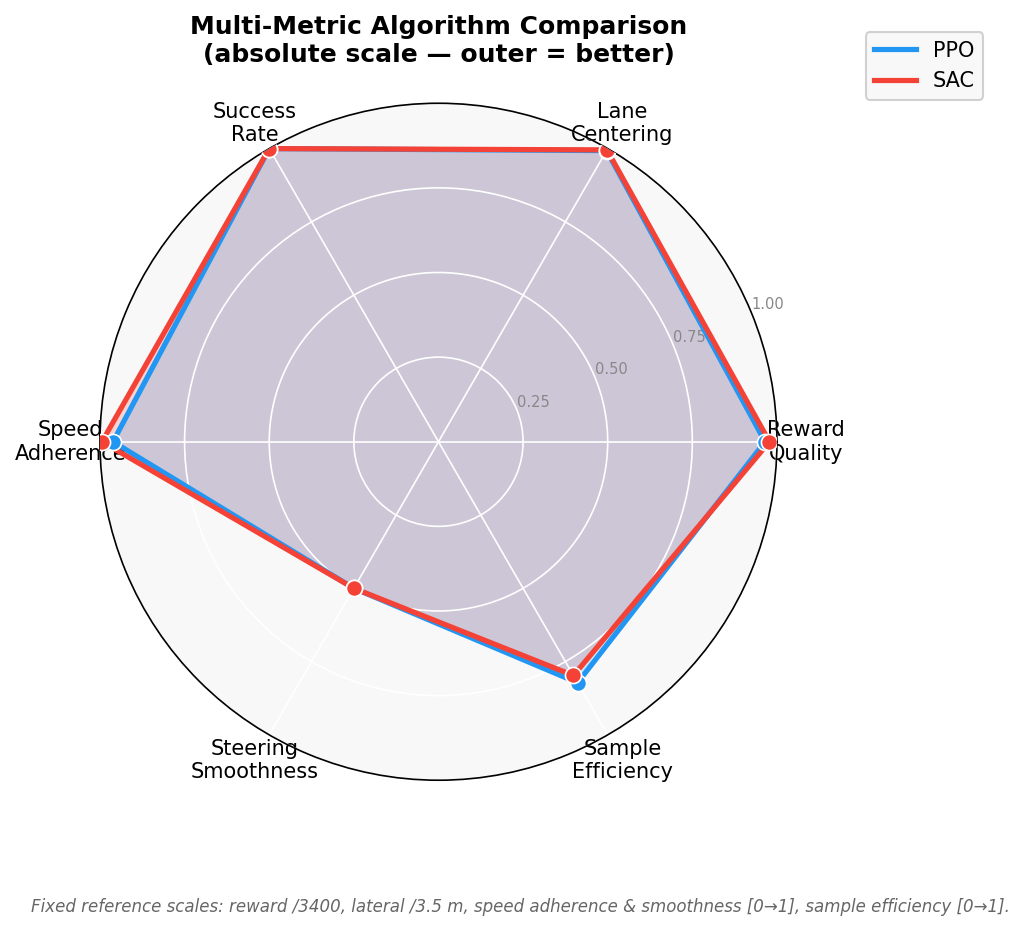
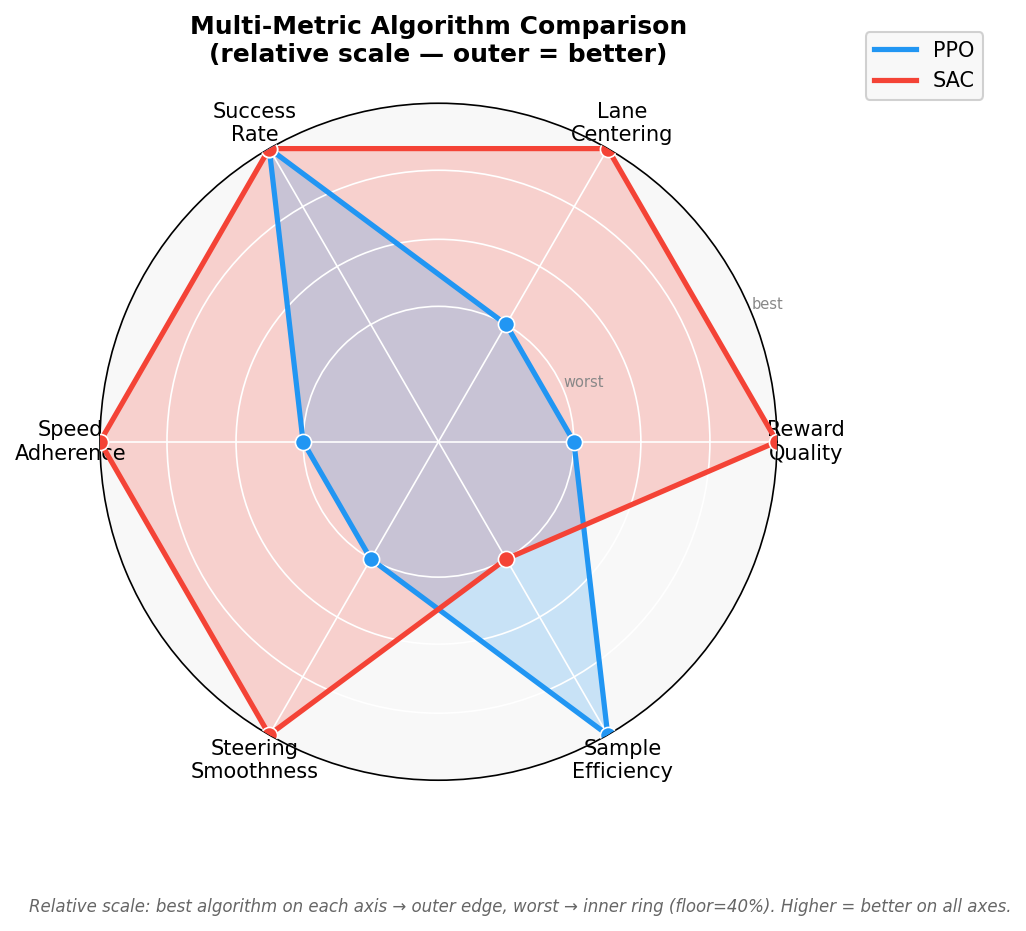
fix(radar_chart): use relative normalisation with floor so differences visible
Replace absolute normalisation (reward/3400, lateral/3.5m) which made
both PPO and SAC cluster at ~0.96-1.0 and appear nearly identical, with
relative normalisation (best algo → 1.0, worst → 0.4 floor) so the
meaningful differences in speed adherence, smoothness, and sample
efficiency are clearly visible.

Also add _load_all_training_rows() helper to plot_metrics.py (mirrors
generate_metrics.py) so radar chart computes speed/smoothness from
consistent merged+deduplicated CSV rows instead of re-reading raw files.

diff --git a/scripts/plot_metrics.py b/scripts/plot_metrics.py
@@ -87,6 +87,31 @@ def _rolling_mean(values, window):
     return result
 
 
+def _load_all_training_rows(algo):
+    """
+    Return all raw episode CSV rows for the algorithm, merged across runs,
+    sorted by timestep and deduplicated (same logic as generate_metrics.py).
+    Returns None if no CSV files found.
+    """
+    pattern = os.path.join(RESULTS_ROOT, "logs", algo, "*", "episode_log.csv")
+    paths = sorted(glob.glob(pattern))
+    if not paths:
+        return None
+
+    all_rows = []
+    for p in paths:
+        rows = _read_csv(p)
+        all_rows.extend(rows)
+
+    if not all_rows:
+        return None
+
+    seen = {}
+    for r in all_rows:
+        seen[int(r["timestep"])] = r
+    return sorted(seen.values(), key=lambda r: int(r["timestep"]))
+
+
 def load_training_data(algo):
     """
     Return the full training history for the algorithm by merging all
@@ -587,13 +612,16 @@ def plot_sample_efficiency(outdir, smooth_window=20, threshold=2500):
 
 def plot_radar_chart(outdir, window=20):
     """
-    Normalized spider/radar chart comparing algorithms across six dimensions:
-    reward quality, lane centering, success rate, speed adherence,
-    steering smoothness, and sample efficiency.
-    Higher is always better on every axis.
+    Spider/radar chart comparing algorithms across six dimensions.
+    Uses relative normalisation with floor=0.4 so that:
+      - the best algorithm on each axis reaches 1.0 (outer edge)
+      - the worst algorithm on each axis reaches 0.4 (visible, not zero)
+    This shows meaningful differences while both polygons remain clearly visible.
+    Data loading is consistent with generate_metrics.py.
     """
-    SPEED_TARGET = 30.0
-    SAMPLE_EFF_THRESHOLD = 2500
+    SPEED_TARGET       = 30.0
+    SAMPLE_EFF_THRESH  = 2500
+    FLOOR              = 0.4    # minimum polygon radius for worst value on each axis
 
     categories = [
         "Reward\nQuality",
@@ -605,68 +633,59 @@ def plot_radar_chart(outdir, window=20):
     ]
     N = len(categories)
 
-    # ── Gather raw values per algorithm ───────────────────────────────────────
+    # ── Collect raw metric values — same sources as generate_metrics.py ───────
     raw = {}
     for algo in ALGORITHMS:
-        eval_data = load_eval_data(algo)
-        train_data = load_training_data(algo)
+        eval_data  = load_eval_data(algo)
+        train_rows = _load_all_training_rows(algo)   # merged & sorted, same as gen_metrics
 
-        if eval_data is None and train_data is None:
+        if eval_data is None and train_rows is None:
             continue
 
-        # Reward quality — use mean reward from eval, or training fallback
+        # Performance from eval (preferred) or training fallback
         if eval_data:
-            reward = eval_data["mean_reward"]
+            reward  = eval_data["mean_reward"]
             lateral = eval_data["mean_lateral"]
             success = eval_data["success_rate"]
         else:
-            rewards = train_data["rewards"][-window:]
-            laterals = train_data["laterals"][-window:]
-            reward = sum(rewards) / len(rewards)
-            lateral = sum(laterals) / len(laterals)
+            rw = train_rows[-window:]
+            reward  = sum(float(r.get("episode_reward", r.get("reward", 0))) for r in rw) / len(rw)
+            lat_key = "mean_lateral_dist" if "mean_lateral_dist" in rw[0] else "mean_lateral_distance"
+            lateral = sum(float(r[lat_key]) for r in rw) / len(rw)
             success = 1.0
 
-        # Speed adherence from training logs
+        # Speed adherence and smoothness from last `window` training episodes
         speed_adh = None
-        if train_data:
-            speeds_window = train_data.get("speeds")
-            # Re-load for speed (not in the dict — read from raw CSV)
-            pattern = os.path.join(RESULTS_ROOT, "logs", algo, "*", "episode_log.csv")
-            paths = sorted(glob.glob(pattern))
-            all_rows = []
-            for p in paths:
-                rows = _read_csv(p)
-                all_rows.extend(rows)
-            if all_rows and "mean_speed_kmh" in all_rows[0]:
-                all_rows.sort(key=lambda r: int(r["timestep"]))
-                w_rows = all_rows[-window:]
-                speeds = [float(r["mean_speed_kmh"]) for r in w_rows]
-                mean_spd = sum(speeds) / len(speeds)
+        smoothness = None
+        if train_rows:
+            w = train_rows[-window:]
+            if "mean_speed_kmh" in w[0]:
+                speeds    = [float(r["mean_speed_kmh"]) for r in w]
+                mean_spd  = sum(speeds) / len(speeds)
                 speed_adh = max(0.0, 1.0 - abs(mean_spd - SPEED_TARGET) / SPEED_TARGET)
-
-            # Smoothness
-            smoothness = None
-            if all_rows and "mean_smoothness" in all_rows[0]:
-                w_rows = all_rows[-window:]
-                sm = [float(r["mean_smoothness"]) for r in w_rows]
+            if "mean_smoothness" in w[0]:
+                sm         = [float(r["mean_smoothness"]) for r in w]
                 smoothness = sum(sm) / len(sm)
 
-        # Sample efficiency — normalise: 1 = very fast, 0 = never converged
+        # Sample efficiency: 1 − (steps_to_threshold / 1M), 0 if never reached
         se_step = None
-        if train_data:
-            smooth_rw = _rolling_mean(train_data["rewards"], window)
-            for ts, r in zip(train_data["timesteps"], smooth_rw):
-                if r >= SAMPLE_EFF_THRESHOLD:
+        if train_rows:
+            reward_key = "episode_reward" if "episode_reward" in train_rows[0] else "reward"
+            rw_vals    = [float(r[reward_key]) for r in train_rows]
+            ts_vals    = [int(r["timestep"])   for r in train_rows]
+            smooth_rw  = _rolling_mean(rw_vals, window)
+            for ts, rm in zip(ts_vals, smooth_rw):
+                if rm >= SAMPLE_EFF_THRESH:
                     se_step = ts
                     break
-        se_norm = max(0.0, 1.0 - (se_step / 1_000_000)) if se_step else 0.0
+        se_norm = max(0.0, 1.0 - se_step / 1_000_000) if se_step else 0.0
 
         raw[algo] = {
-            "reward":    reward,
-            "lateral":   lateral,
-            "success":   success,
-            "speed_adh": speed_adh if speed_adh is not None else 0.5,
-            "smoothness": smoothness if smoothness is not None else 0.5,
+            "reward":     reward,
+            "lateral":    lateral,
+            "success":    success,
+            "speed_adh":  speed_adh  if speed_adh  is not None else 0.0,
+            "smoothness": smoothness if smoothness is not None else 0.0,
             "sample_eff": se_norm,
         }
 
@@ -674,26 +693,35 @@ def plot_radar_chart(outdir, window=20):
         print("  [skip] radar_chart — need at least 2 algorithms with data")
         return
 
-    # ── Absolute normalisation with fixed reference points ────────────────────
-    # Each metric maps to [0, 1] using domain-appropriate reference values so
-    # that small inter-algorithm differences are not artificially amplified.
-    MAX_REWARD    = 3400.0    # theoretical max (1000 steps × max reward/step)
-    MAX_LATERAL   = 3.5       # lane boundary in metres
-    MAX_STEPS     = 1_000_000 # training budget
-
-    def score(algo):
-        d = raw[algo]
-        return [
-            d["reward"]    / MAX_REWARD,              # reward quality
-            1.0 - d["lateral"]  / MAX_LATERAL,        # lane centering (lower = better)
-            d["success"],                              # success rate (already 0-1)
-            d["speed_adh"],                            # speed adherence (already 0-1)
-            d["smoothness"],                           # smoothness (already 0-1)
-            d["sample_eff"],                           # sample efficiency (already 0-1)
-        ]
-
     algos = list(raw.keys())
-    scores = {algo: score(algo) for algo in algos}
+
+    # ── Relative normalisation with floor ─────────────────────────────────────
+    # For each metric, best observed → 1.0, worst observed → FLOOR.
+    # Higher is always better (lateral is inverted first).
+    raw_scores = {
+        algo: [
+            raw[algo]["reward"],
+            1.0 - raw[algo]["lateral"] / 3.5,   # invert: lower lateral = better
+            raw[algo]["success"],
+            raw[algo]["speed_adh"],
+            raw[algo]["smoothness"],
+            raw[algo]["sample_eff"],
+        ]
+        for algo in algos
+    }
+
+    def norm_with_floor(metric_idx):
+        vals = [raw_scores[a][metric_idx] for a in algos]
+        mn, mx = min(vals), max(vals)
+        if mx == mn:
+            return {a: 1.0 for a in algos}
+        return {
+            a: FLOOR + (1.0 - FLOOR) * (raw_scores[a][metric_idx] - mn) / (mx - mn)
+            for a in algos
+        }
+
+    normed = [norm_with_floor(i) for i in range(N)]
+    scores = {algo: [normed[i][algo] for i in range(N)] for algo in algos}
 
     # ── Build polar plot ──────────────────────────────────────────────────────
     angles = [n / float(N) * 2 * np.pi for n in range(N)]
@@ -701,38 +729,42 @@ def plot_radar_chart(outdir, window=20):
 
     fig, ax = plt.subplots(figsize=(7, 7), subplot_kw=dict(polar=True))
 
-    # Draw fills first (largest area behind, smallest in front so both visible)
+    # Draw largest fill behind, smallest fill in front — both always visible
     area_order = sorted(algos, key=lambda a: sum(scores[a]), reverse=True)
     for algo in area_order:
         vals = scores[algo] + scores[algo][:1]
-        ax.fill(angles, vals, color=COLORS[algo], alpha=0.20)
+        ax.fill(angles, vals, color=COLORS[algo], alpha=0.22)
 
-    # Draw lines and points on top of all fills
-    hatches = ["///", "..."]   # distinct hatch per algorithm for print-safe distinction
-    for i, algo in enumerate(algos):
-        vals = scores[algo] + scores[algo][:1]
+    # Lines and scatter points on top
+    for algo in algos:
+        vals  = scores[algo] + scores[algo][:1]
         color = COLORS[algo]
         ax.plot(angles, vals, color=color, linewidth=2.5, label=algo.upper(), zorder=4)
-        ax.scatter(angles[:-1], vals[:-1], color=color, s=60, zorder=5, edgecolors="white", linewidths=0.8)
+        ax.scatter(angles[:-1], vals[:-1], color=color, s=60, zorder=5,
+                   edgecolors="white", linewidths=0.8)
 
+    # Reference rings labelled with actual meaning
+    ax.set_yticks([FLOOR, FLOOR + (1 - FLOOR) * 0.33,
+                   FLOOR + (1 - FLOOR) * 0.67, 1.0])
+    ax.set_yticklabels(["worst", "", "", "best"], fontsize=7, color="#888888")
+    ax.set_ylim(0, 1)
     ax.set_xticks(angles[:-1])
     ax.set_xticklabels(categories, fontsize=10)
-    ax.set_ylim(0, 1)
-    ax.set_yticks([0.25, 0.5, 0.75, 1.0])
-    ax.set_yticklabels(["0.25", "0.50", "0.75", "1.00"], fontsize=7, color="#888888")
     ax.grid(color="white", linewidth=0.8)
     ax.set_facecolor("#F8F8F8")
 
     ax.legend(loc="upper right", bbox_to_anchor=(1.32, 1.12), fontsize=10)
     ax.set_title(
-        "Multi-Metric Algorithm Comparison\n(absolute scale — outer = better)",
+        "Multi-Metric Algorithm Comparison\n(relative scale — outer = better)",
         fontsize=12, fontweight="bold", pad=20,
     )
 
-    fig.text(0.5, 0.01,
-             "Fixed reference scales: reward /3400, lateral /3.5 m, "
-             "speed adherence & smoothness [0→1], sample efficiency [0→1].",
-             ha="center", fontsize=8, color="#666666", style="italic")
+    fig.text(
+        0.5, 0.01,
+        "Relative scale: best algorithm on each axis → outer edge, "
+        "worst → inner ring (floor={:.0f}%). Higher = better on all axes.".format(FLOOR * 100),
+        ha="center", fontsize=8, color="#666666", style="italic",
+    )
 
     fig.tight_layout()
     path = os.path.join(outdir, "radar_chart.png")
